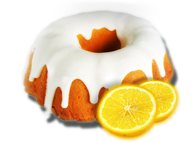
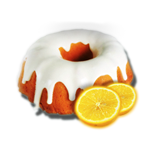
new prize images

diff --git a/app/tab.php b/app/tab.php
@@ -37,7 +37,7 @@
 			   caption: 'Give it a shot and you could win an amazing BOT prize or a fun NOT prize. Just go to the SVEDKA Vodka Facebook page to play! This week\'s BOT prize: <?= $grandPrize['name']?>',
 			   href: '<?= $share_url ?>&fid=<?= $player["facebook_id"]?>',
                		   media: [
-               			    { type: 'image', src: 'http://www.adcontests.com/svedka/app/images/svedka_icon.png', href: '<?= $share_url ?>&fid=<?= $player["facebook_id"]?>' 
+               			    { type: 'image', src: 'http://www.adcontests.com/svedka/app/images/svedka_icon.png', href: '<?= $share_url ?>&fid=<?= $player["facebook_id"]?>'
 				    }
 				  ]
 		};
@@ -70,7 +70,7 @@
 
             <div id="playGame">
 	<!-- Static HTML landing page -->
-				<p><b font="Arial">Everyone is a winner!</b> Sort of. Just pick a door to see if you win this week's amazing SVEDKA BOT prize or end up with a fun consolation NOT prize. <b font="Arial">Increase your chances to win</b> by inviting friends. If one of them wins a Bot Grand Prize, you do too! Click below to play.  <span style="font-size:10px;"><a target="_blank" href="<?=$web_url?>/rules.php" style="color:#ffc821;">See Official Rules</a> for details.</span></p>
+				<p><b font="Arial">Everyone is a winner!</b> Sort of. Just pick a door to see if you win this week's amazing SVEDKA BOT prize or end up with a fun consolation NOT prize. <b font="Arial">Increase your chances to win</b> by inviting friends. If one of them wins a Bot Grand Prize, you do too! Click below to play.  <span style="font-size:10px;"><a href="#" onclick="window.open('<?=$web_url?>/rules.php', 'Rules', 'toolbar=no,location=no,menubar=no,width=785,height=800,scrollbars=yes');" style="color:#ffc821;">See Official Rules</a> for details.</span></p>
 				<p class="title">This week's bot prize: <span><?= $grandPrize['name'] ?></span></p>
 <fb:visible-to-connection>
 	<a id="playLink" href="https://graph.facebook.com/oauth/authorize?client_id=<?= $facebook_app_id ?>&scope=email,publish_stream,user_birthday,user_likes&redirect_uri=<?= $app_url ?>/" class="playBtn">play</a>

diff --git a/app/redeem.php b/app/redeem.php
@@ -149,7 +149,7 @@
 			   caption: 'They didn\'t win the BOT prize but you could. Click to play.',
 			   href: '<?= $share_url ?>&fid=<?= $player["facebook_id"] ?>',
                media: [
-               	{ type: 'image', src: 'http://www.adcontests.com/svedka/app/prizes/Prize_<?= $prizeSchedule['prize_image'] ?>_Icon_2.png', href: '<?= $share_url ?>&fid=<?= $player["facebook_id"] ?>' }
+               	{ type: 'image', src: 'http://www.adcontests.com/svedka/app/prizes/FacebookPrizes/<?= $prizeSchedule['prize_image'] ?>_90x90.png', href: '<?= $share_url ?>&fid=<?= $player["facebook_id"] ?>' }
                ]
 			 },
 			 action_links: [
